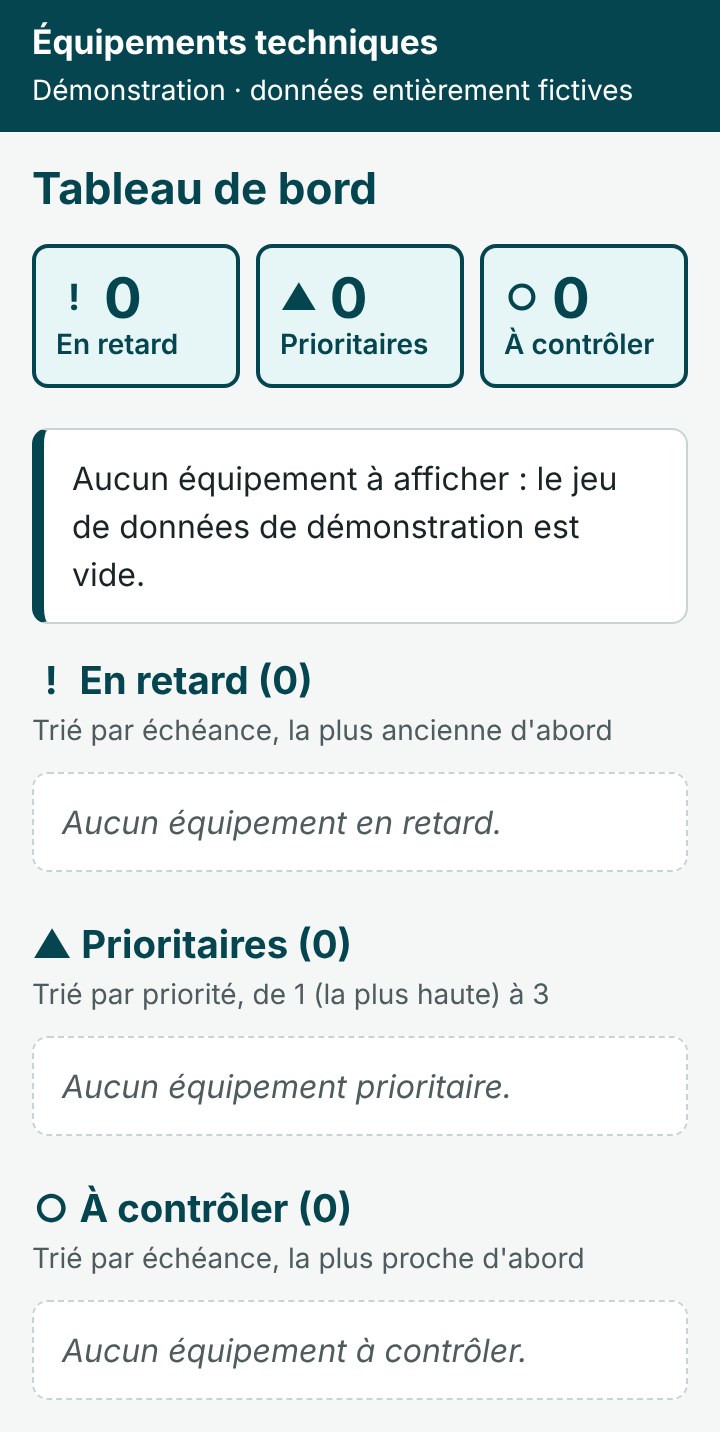
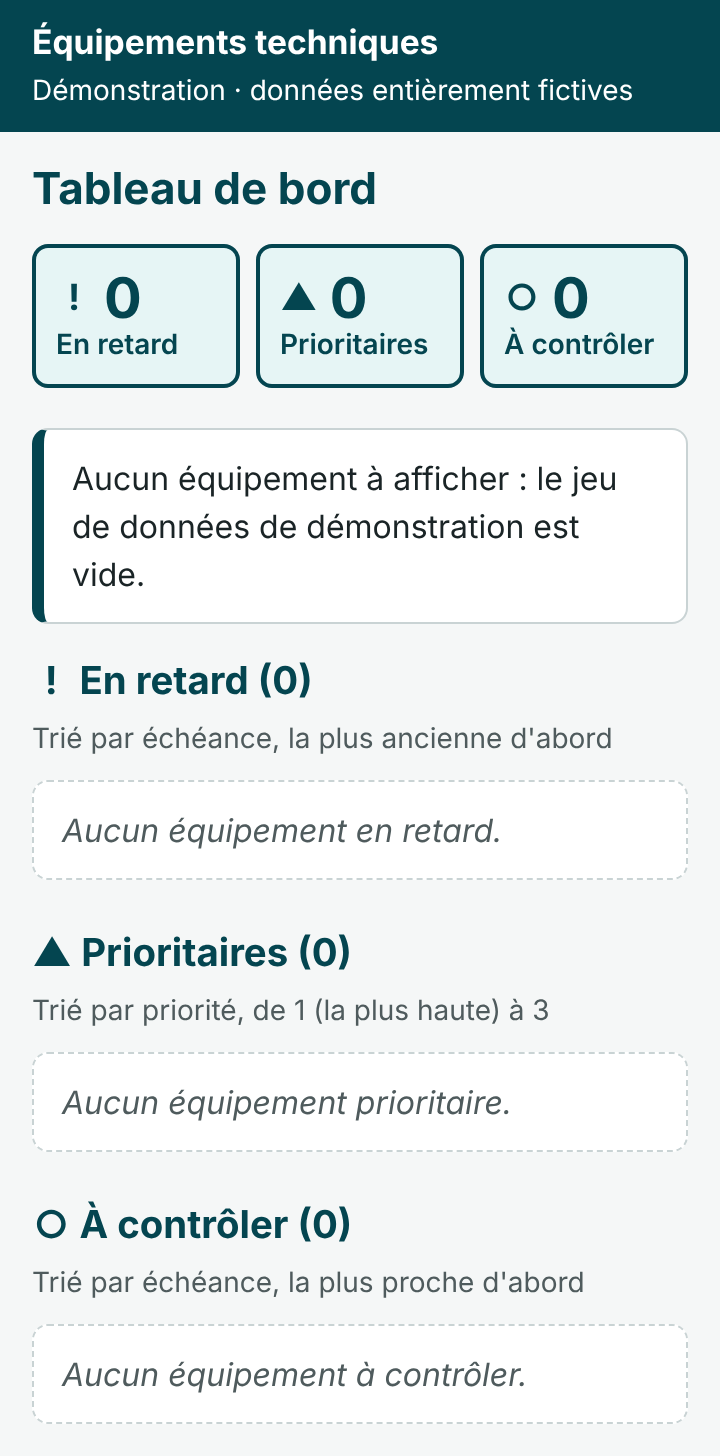
Revue UX : priorité explicite, annonces persistantes, focus et alignement
Corrections issues de la revue du sous-agent ux-designer :
- I1 : « Priorité : 1 (la plus haute) » / « 3 (la plus basse) » au lieu
  de « 1 sur 3 », ambigu (libellé à valider par l'humain).
- I2 : région role="status" persistante dans index.html ; seul son texte
  change (chargement, tableau affiché, jeu vide).
- S1 : contour de focus du titre de section ne chevauche plus le sous-titre.
- S2 : sur desktop, chaque compteur est aligné sur sa colonne.
- S4 : aria-describedby sur le lien de carte (échéance ou priorité).
- S5 : le lien d'évitement place un focus visible sur le h1.
Captures régénérées.

Claude-Session: https://claude.ai/code/session_01Vkr14tcXTxQqZyVmUxi2zd

diff --git a/src/app.js b/src/app.js
@@ -16,6 +16,15 @@ import {
 } from "./tableau-de-bord.js";
 
 const main = document.getElementById("contenu");
+const annonce = document.getElementById("annonce");
+
+/** Met à jour la région d'annonce persistante (après le rendu, pour être perçu comme un changement). */
+function annoncer(texte) {
+  annonce.textContent = "";
+  window.setTimeout(() => {
+    annonce.textContent = texte;
+  }, 50);
+}
 
 let etatSimule = lireEtatSimule(window.location.search);
 /** Identifiant de la carte depuis laquelle la fiche a été ouverte. */
@@ -80,12 +89,12 @@ function htmlCarte(equipement, categorie) {
   return `
     <li class="carte carte--${categorie.cle}" id="${idDomCarte(equipement.id)}">
       <h3 class="carte__titre">
-        <a class="carte__lien" href="${lienFiche(equipement.id)}" data-id="${echapper(equipement.id)}">
+        <a class="carte__lien" href="${lienFiche(equipement.id)}" data-id="${echapper(equipement.id)}" aria-describedby="${idDomCarte(equipement.id)}-meta">
           <span class="carte__id">${echapper(equipement.id)}</span>
           <span class="carte__designation">${echapper(equipement.designation)}</span>
         </a>
       </h3>
-      <p class="carte__meta">${badge(categorie)}<span>${info.libelle} : ${valeur}</span></p>
+      <p class="carte__meta" id="${idDomCarte(equipement.id)}-meta">${badge(categorie)}<span>${info.libelle} : ${valeur}</span></p>
     </li>`;
 }
 
@@ -110,7 +119,8 @@ function rendreChargement() {
   main.innerHTML = `
     <h1 tabindex="-1">Tableau de bord</h1>
     ${htmlCompteurs(null)}
-    <p class="message" role="status">Chargement des équipements…</p>`;
+    <p class="message">Chargement des équipements…</p>`;
+  annoncer("Chargement des équipements…");
 }
 
 function rendreErreur() {
@@ -136,10 +146,15 @@ function rendreTableau() {
     ${htmlCompteurs(compteurs)}
     ${
       equipements.length === 0
-        ? `<p class="message" role="status">Aucun équipement à afficher : le jeu de données de démonstration est vide.</p>`
+        ? `<p class="message">Aucun équipement à afficher : le jeu de données de démonstration est vide.</p>`
         : ""
     }
     <div class="sections">${sections.map(htmlSection).join("")}</div>`;
+  annoncer(
+    equipements.length === 0
+      ? "Aucun équipement à afficher : le jeu de données de démonstration est vide."
+      : `Tableau de bord affiché : ${CATEGORIES.map((c) => `${c.titre} ${compteurs[c.cle]}`).join(", ")}.`,
+  );
 }
 
 function rendreFiche(id) {
@@ -229,9 +244,9 @@ document.addEventListener("click", (evenement) => {
   if (!cible) return;
 
   if (cible.closest("a.lien-evitement")) {
-    // Lien d'évitement : déplacer le focus sans changer de vue.
+    // Lien d'évitement : déplacer le focus (visible) sans changer de vue.
     evenement.preventDefault();
-    main.focus();
+    focaliser(main.querySelector("h1") ?? main);
     return;
   }
 

diff --git a/tests/tableau-de-bord.test.js b/tests/tableau-de-bord.test.js
@@ -161,8 +161,8 @@ describe("fiche équipement", () => {
   it("affiche la priorité pour un équipement prioritaire, l'échéance sinon", () => {
     assert.deepEqual(informationCle(eq("A", "prioritaire", { priorite: 2 })), {
       libelle: "Priorité",
-      valeur: "2 sur 3",
-      valeurLongue: "2 sur 3",
+      valeur: "2",
+      valeurLongue: "2",
       iso: null,
     });
     assert.deepEqual(informationCle(eq("B", "en_retard", { echeance: "2026-09-14" })), {
@@ -171,6 +171,12 @@ describe("fiche équipement", () => {
       valeurLongue: "14 septembre 2026",
       iso: "2026-09-14",
     });
+  });
+
+  it("explicite le sens de la priorité (1 = la plus haute)", () => {
+    assert.equal(informationCle(eq("A", "prioritaire", { priorite: 1 })).valeur, "1 (la plus haute)");
+    assert.equal(informationCle(eq("A", "prioritaire", { priorite: 3 })).valeur, "3 (la plus basse)");
+    assert.equal(informationCle(eq("A", "prioritaire")).valeur, "Non renseignée");
   });
 
   it("formate les dates en français et signale une date absente ou invalide", () => {

diff --git a/src/tableau-de-bord.js b/src/tableau-de-bord.js
@@ -174,6 +174,13 @@ export function formaterDateLongue(iso) {
   return date ? `${Number(date.jour)} ${MOIS[date.numeroMois - 1]} ${date.annee}` : "Non renseignée";
 }
 
+/** Libellés explicites : « 1 sur 3 » pouvait se lire comme une note faible. */
+const LIBELLES_PRIORITE = Object.freeze({
+  1: "1 (la plus haute)",
+  2: "2",
+  3: "3 (la plus basse)",
+});
+
 /**
  * Information secondaire affichée selon la catégorie (hypothèse du pilote) :
  * la priorité pour « prioritaire », l'échéance sinon.
@@ -181,7 +188,7 @@ export function formaterDateLongue(iso) {
  */
 export function informationCle(equipement) {
   if (equipement.categorie === "prioritaire") {
-    const valeur = equipement.priorite == null ? "Non renseignée" : `${equipement.priorite} sur 3`;
+    const valeur = LIBELLES_PRIORITE[equipement.priorite] ?? "Non renseignée";
     return { libelle: "Priorité", valeur, valeurLongue: valeur, iso: null };
   }
   return {

diff --git a/index.html b/index.html
@@ -14,10 +14,12 @@
       <p class="bandeau__titre">Équipements techniques</p>
       <p class="bandeau__mention">Démonstration · données entièrement fictives</p>
     </header>
+    <!-- Région d'annonce persistante : seul son texte change (lecteurs d'écran). -->
+    <p id="annonce" class="visuellement-masque" role="status" aria-live="polite"></p>
     <main id="contenu" tabindex="-1" aria-busy="true">
       <!-- État initial avant exécution du script : chargement. -->
       <h1>Tableau de bord</h1>
-      <p class="message" role="status">Chargement des équipements…</p>
+      <p class="message">Chargement des équipements…</p>
       <noscript>
         <p class="message message--erreur">Cette démonstration nécessite JavaScript.</p>
       </noscript>

diff --git a/src/styles.css b/src/styles.css
@@ -229,8 +229,12 @@ a.compteur:hover {
   scroll-margin-top: 12px;
 }
 
+.section__titre:focus {
+  outline-offset: 2px;
+}
+
 .section__tri {
-  margin: 2px 0 10px;
+  margin: 6px 0 10px;
   font-size: 0.875rem;
   color: var(--texte-secondaire);
 }
@@ -400,9 +404,10 @@ a.compteur:hover {
     font-size: 1.75rem;
   }
 
+  /* Même grille que les sections : chaque compteur au-dessus de sa colonne. */
   .compteurs {
-    gap: 16px;
-    max-width: 720px;
+    grid-template-columns: repeat(3, minmax(0, 1fr));
+    gap: 24px;
   }
 
   .sections {
